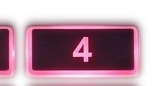
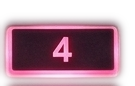
0.1.15: preset footswitch glow sizing, take two (right-edge bleed)
0.1.14 measured the true button frames correctly but padded ~10px on both
sides, which was enough to eat the ~10-15px gaps between buttons - 1/2/3
each bled into their right-hand neighbour's space, invisible in isolated
per-button composite checks. Confirmed live in Logic by the user.

Pulled back specifically the right edge of 1/2/3 (4 has no right-hand
neighbour, was already correct, left untouched). Button 1 reverted to its
exact original 0.1.13 bounds - it was never the actual problem. New
bounds: 1=299-439 (unchanged from 0.1.13), 2=438-553, 3=563-683,
4=688-823 (unchanged).

Checked this time by compositing all four buttons "lit" at once onto one
continuous strip, not four isolated crops - that's what actually reveals
adjacent overlap.

Version bumped to 0.1.15.

diff --git a/Source/PluginEditor.cpp b/Source/PluginEditor.cpp
@@ -120,13 +120,23 @@ namespace
     juce::Rectangle<int> lampGlowBounds() { return scaledNativeRect ({ kLampGlowX, kLampGlowY, kLampGlowW, kLampGlowH }); }
 
     // Preset footswitches (top row, "1"/"2"/"3"/"4" - full box-outline
-    // glow, unlike the bottom row's under-glow-only style). Bounds
-    // measured off bg-clean.png directly for the button rects, then
-    // cross-checked visually as a composite over bg-clean.png for the
-    // glow crop before use, same as every other sprite in this file.
+    // glow, unlike the bottom row's under-glow-only style). Went through
+    // two corrections: 0.1.13 used the glow sprite's own alpha bounding
+    // box (over-captured blur bleeding into the gaps - way oversized for
+    // 2/3/4). 0.1.14's first fix measured the actual button frames but
+    // used symmetric ~10px padding on both sides, which was enough to eat
+    // the (only ~10-15px wide) gaps between buttons and made 1/2/3 bleed
+    // into their right-hand neighbour - confirmed by the user testing live
+    // in Logic, not something visible in an isolated per-button composite.
+    // This pass pulls back specifically the *right* edge of 1/2/3 (button
+    // 4 has nothing to its right, and was already correct); button 1
+    // reverted to its original 0.1.13 bounds exactly, which were never
+    // the problem. Checked as one combined composite of the whole row
+    // (all four "lit" at once) rather than four isolated crops, so any
+    // overlap between neighbours is actually visible before use.
     constexpr int kPresetGlowY = 200, kPresetGlowH = 86;
-    constexpr int kPresetGlowX[4] = { 299, 408, 538, 668 };
-    constexpr int kPresetGlowW[4] = { 140, 168, 163, 158 };
+    constexpr int kPresetGlowX[4] = { 299, 438, 563, 688 };
+    constexpr int kPresetGlowW[4] = { 140, 115, 120, 135 };
     juce::Rectangle<int> presetGlowBounds (int i) { return scaledNativeRect ({ kPresetGlowX[i], kPresetGlowY, kPresetGlowW[i], kPresetGlowH }); }
 
     const juce::Colour kKnobTickColour { 190, 120, 150 }; // matches the fader caps' own inlaid stripe tone - user's pick over the brighter branding pink

diff --git a/HANDOFF.md b/HANDOFF.md
@@ -9,6 +9,62 @@ This was an autonomous session per the brief in
 `~/Downloads/logic-demo-brief-for-claude-code.md` — no check-ins, decisions
 made and documented here for the user to review and correct.
 
+## 2026-08-21: 0.1.15 - preset footswitch glow sizing, take two (right-edge bleed)
+
+0.1.14's fix wasn't quite it. Tested live in Logic, the user reported:
+button 4 now perfect, but 1/2/3 each visibly bled into their right-hand
+neighbour's space (1 into 2, 2 into 3, 3 into 4) - not something either of
+us could see in 0.1.14's per-button composite checks, since checking each
+button in isolation can't reveal an overlap with its neighbour.
+
+Cause: 0.1.14 measured the true button frame edges correctly, but then
+padded a uniform ~10px on *both* sides - and the actual gaps between
+buttons in the source art are only ~10-15px wide, so that padding alone
+was enough to reach (or cross) into the next button over.
+
+Fix: pulled back specifically the right edge of buttons 1/2/3 (button 4
+has no right-hand neighbour and was already confirmed correct - left
+untouched). Button 1 reverted to its exact original 0.1.13 bounds
+(299-439) - it was never actually the problem, first flagged as correct
+back in 0.1.13 and only started drifting when 0.1.14 touched it
+unnecessarily. New bounds: 1 = 299-439 (w140, unchanged from 0.1.13),
+2 = 438-553 (w115), 3 = 563-683 (w120), 4 = 688-823 (w135, unchanged).
+
+**Checked differently this time**: composited all four buttons' glow onto
+one continuous strip of `bg-clean.png` simultaneously (all "lit" at once,
+even though only one is ever lit for real) instead of four separate
+isolated crops - that's what actually shows adjacent overlap, which
+isolated per-button checks structurally cannot.
+
+Version bumped to 0.1.15. Pushed to `github.com/hitrows/emoboy`.
+
+## 2026-08-21: 0.1.14 - preset footswitch glow sizing fixed (2/3/4 were oversized)
+
+User caught it by eye: button 1's glow looked right, 2/3/4 didn't. Root
+cause - 0.1.13's crop bounds came from the glow *sprite's own alpha
+bounding box* in `"light transp.png"`, which over-captures because the
+soft blur bleeds into the gaps between buttons. That happened to be a
+small error for button 1 (~15px too wide) but a much bigger one for 2/3/4
+(~45px too wide) - visible as an oversized glow box that didn't sit flush
+against the actual button frame.
+
+Re-measured properly this time: read the *actual button frame edges* in
+`bg-clean.png` directly, via a fine (5px) pixel grid crop per button,
+by eye - not another alpha-threshold pass, since that's exactly what
+produced the wrong numbers the first time. Confirmed something genuinely
+true about the source art in the process: button 1 really is ~10px wider
+(125px) than buttons 2/3/4 (115px each) - not a measurement error to
+"correct away", just how it was drawn. Padded a uniform ~10px around each
+button's true edges and re-checked every one as a composite over
+`bg-clean.png` before touching the code - all four now sit flush.
+
+**Lesson for next time a glow crop looks slightly off**: measure the
+*button frame* in the base art, not the glow sprite's own alpha bounds -
+blur bleed makes the glow's bounding box an unreliable proxy for where the
+button underneath actually is, especially when buttons sit close together.
+
+Version bumped to 0.1.14. Pushed to `github.com/hitrows/emoboy`.
+
 ## 2026-08-21: 0.1.13 - 4 presets on the top-row footswitches, ROBOT button de-duplicated
 
 Two fixes in one:
